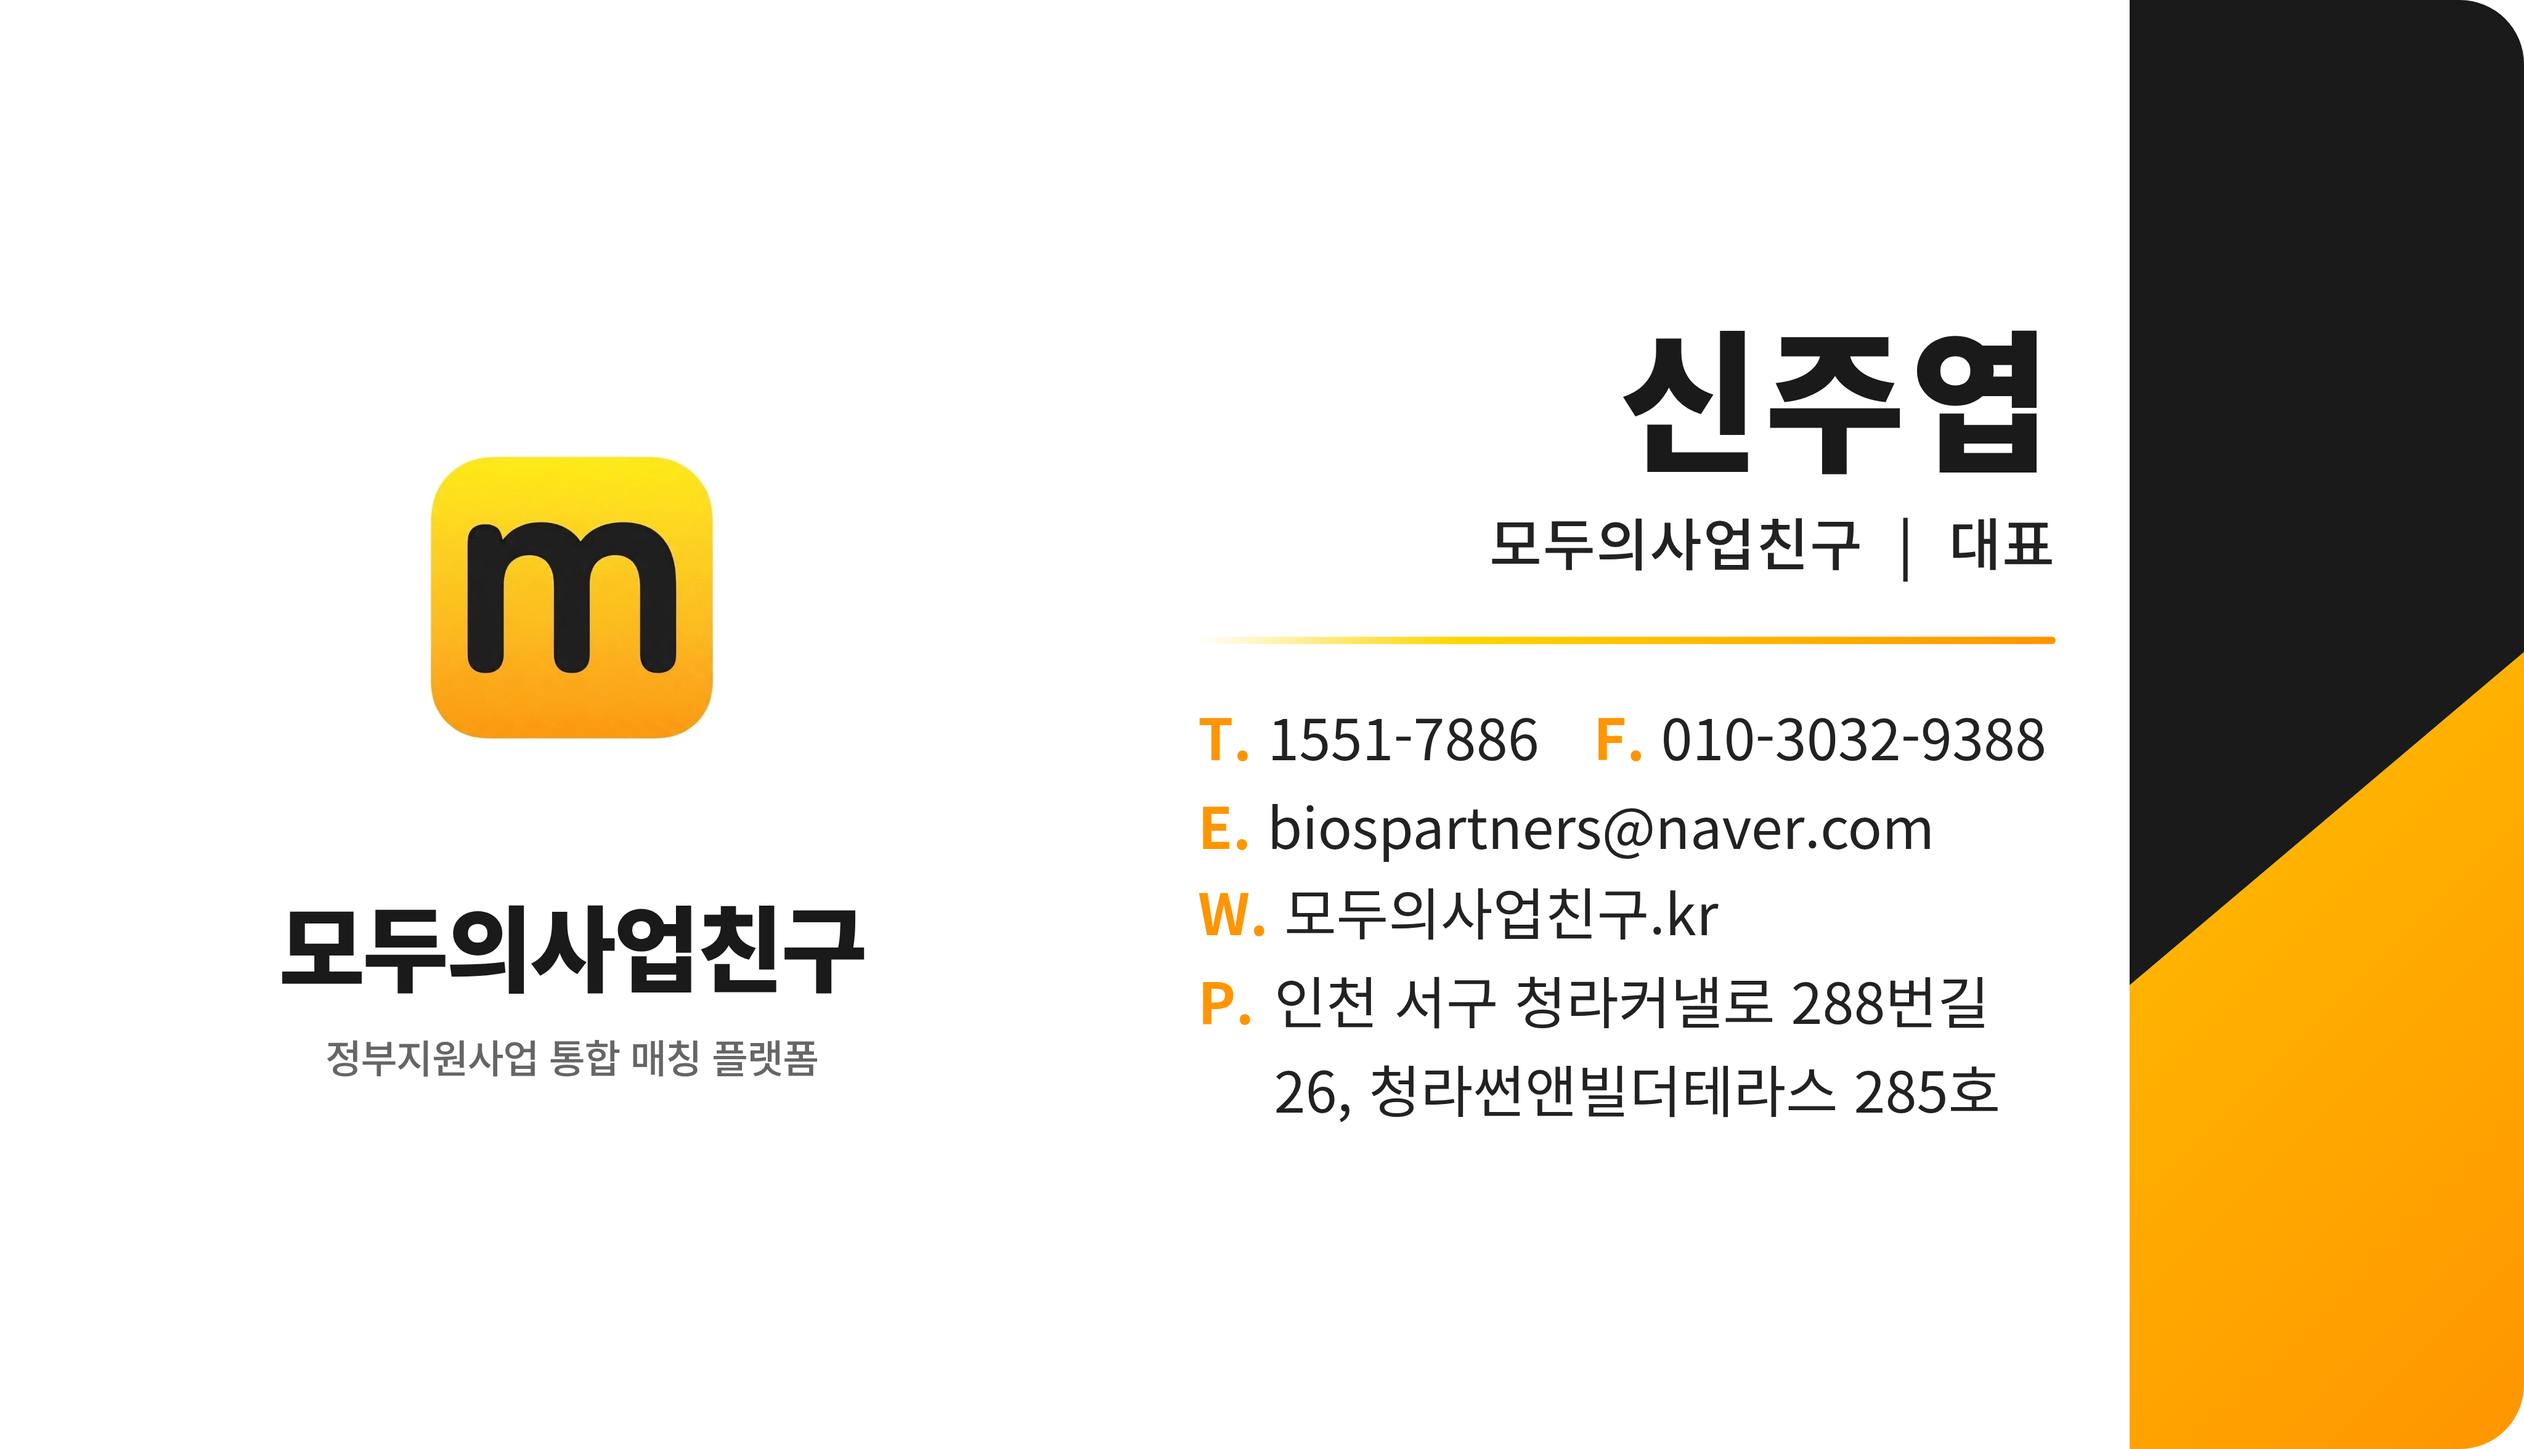
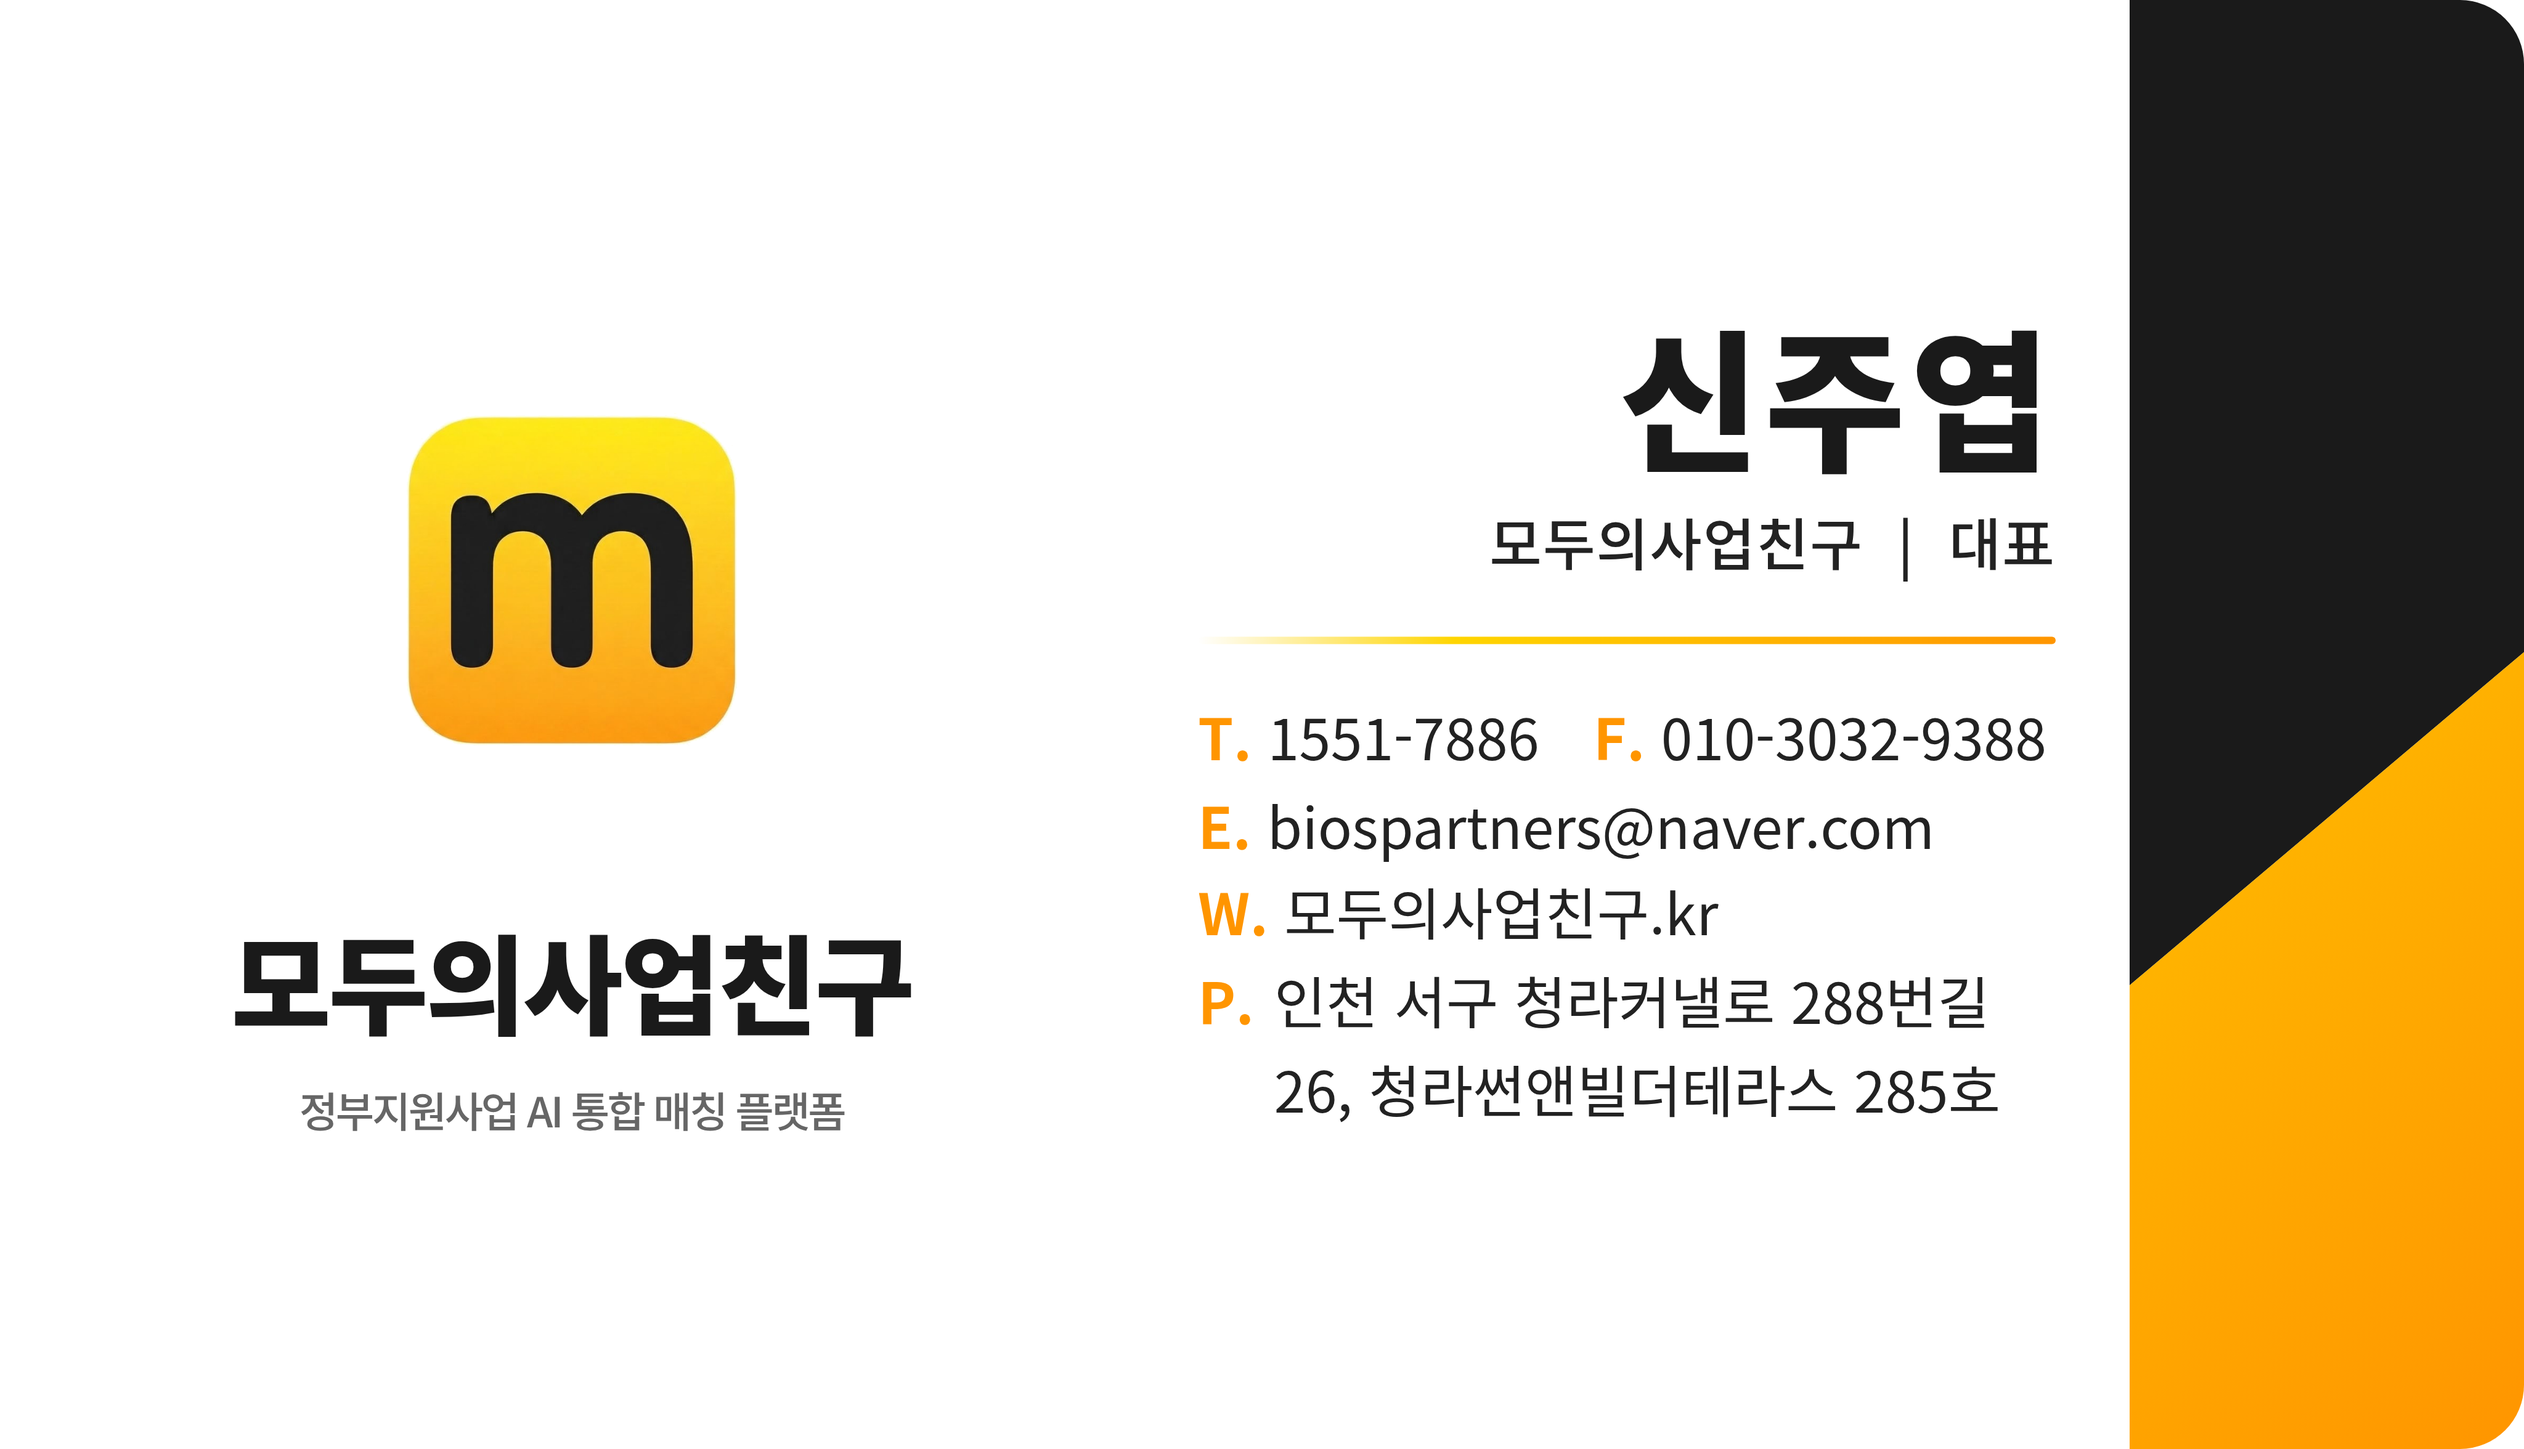
명함 왼쪽 로고 블록 조정: m로고·상호명 확대, 슬로건 '정부지원사업 AI 통합 매칭 플랫폼'으로 변경(가로폭 정렬)

Changed region(s): [[0.0938, 0.6207, 0.375, 0.7759], [0.1562, 0.2793, 0.3125, 0.5276]]

diff --git a/public/card/card-print.html b/public/card/card-print.html
@@ -52,21 +52,22 @@
     width: 300px;
     text-align: center;
   }
-  .logo img { width: 190px; height: auto; display: block; margin: 0 auto; }
+  .logo img { width: 220px; height: auto; display: block; margin: 0 auto; }
   .logo .brand {
-    margin-top: 18px;
-    font-size: 38px;
+    margin-top: 20px;
+    font-size: 44px;
     font-weight: 900;
     color: var(--dark);
     letter-spacing: -1px;
     white-space: nowrap;
   }
   .logo .slogan {
-    margin-top: 6px;
-    font-size: 16px;
+    margin-top: 8px;
+    font-size: 17px;
     font-weight: 500;
     color: var(--gray);
-    letter-spacing: -0.3px;
+    letter-spacing: -0.9px;
+    white-space: nowrap;
   }
 
   /* ── 오른쪽 텍스트 블록 ── */
@@ -116,7 +117,7 @@
     <div class="logo">
       <img src="./modu-logo.png" alt="모두의사업친구 로고" />
       <div class="brand">모두의사업친구</div>
-      <div class="slogan">정부지원사업 통합 매칭 플랫폼</div>
+      <div class="slogan">정부지원사업 AI 통합 매칭 플랫폼</div>
     </div>
 
     <div class="info">
